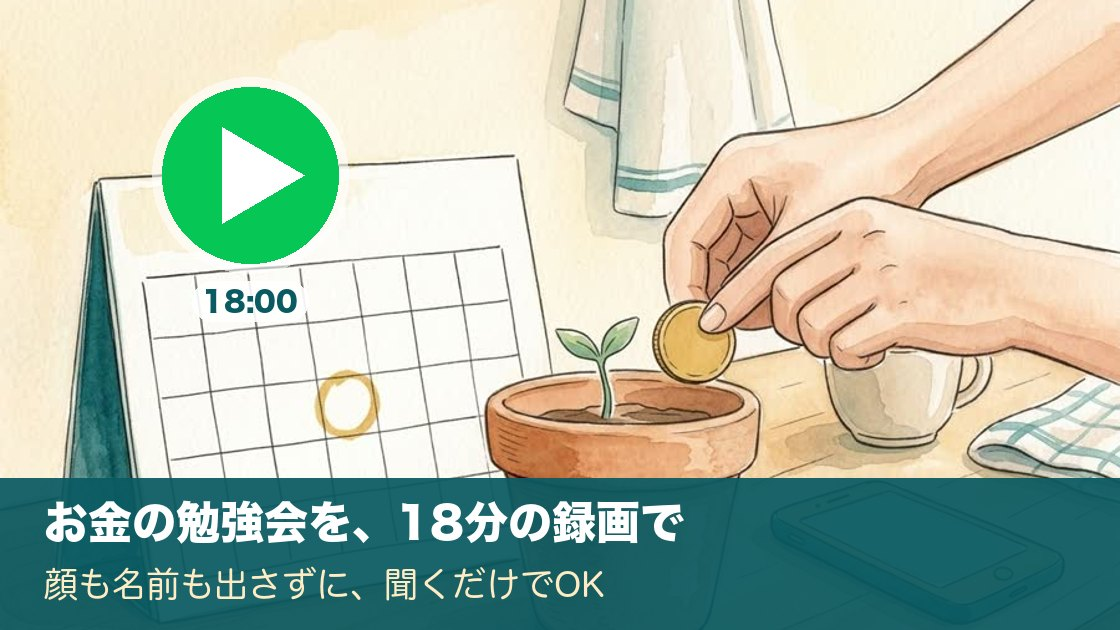
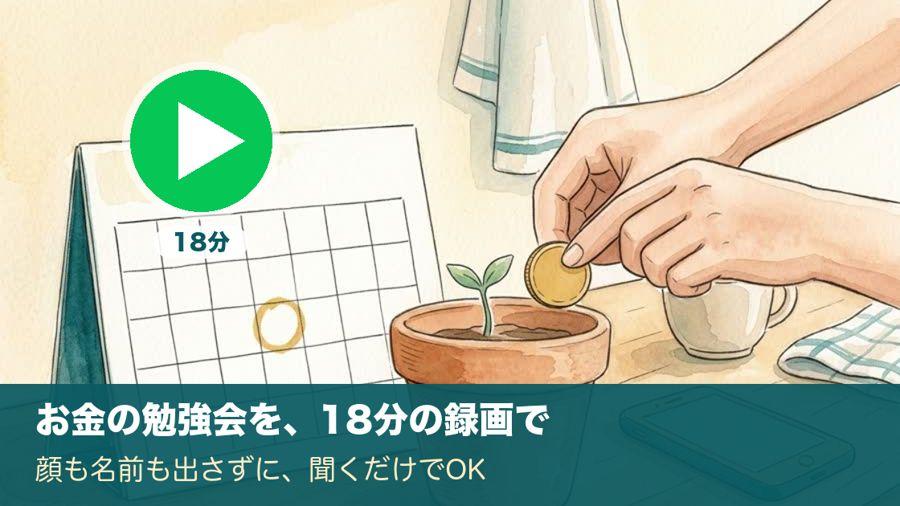
休眠起こし3通目HTML 軽量化（合計386KB）・サムネ18分表記

diff --git a/mail/okoshi/mail3_goal.html b/mail/okoshi/mail3_goal.html
@@ -11,7 +11,7 @@
 </tr></table>
 </td></tr>
 
-<tr><td style="padding:0;"><img src="https://fulfull.jp/wp-content/uploads/2026/11/okoshi-hero.gif" width="600" alt="ゴールの地図を持つ人と、喜ぶそろばんロボ" style="display:block;width:100%;max-width:600px;height:auto;border:0;"></td></tr>
+<tr><td style="padding:0;"><img src="https://fulfull.jp/wp-content/uploads/2026/11/okoshi-hero2.gif" width="600" alt="ゴールの地図を持つ人と、喜ぶそろばんロボ" style="display:block;width:100%;max-width:600px;height:auto;border:0;"></td></tr>
 
 <tr><td style="padding:24px 26px 4px;">
 <table role="presentation" cellpadding="0" cellspacing="0" border="0"><tr><td style="background:#FBF4E3;color:#A87A1F;font-size:13.5px;font-weight:800;border-radius:999px;padding:5px 14px;letter-spacing:.06em;">お金の整え方　その3</td></tr></table>
@@ -75,7 +75,7 @@
 
 <tr><td style="padding:26px 26px 4px;">
 <p style="margin:0 0 10px;font-size:17px;font-weight:800;">まずは聞くだけ、という方へ</p>
-<a href="https://mm738966m-boop.github.io/okane-benkyokai/kiku/?ref=mail_okoshi" style="text-decoration:none;"><img src="https://fulfull.jp/wp-content/uploads/2026/11/okoshi-video3.jpg" width="548" alt="お金の勉強会の18分の録画を再生する（顔も名前も出さずに聞けます）" style="display:block;width:100%;max-width:548px;height:auto;border:0;border-radius:18px;"></a>
+<a href="https://mm738966m-boop.github.io/okane-benkyokai/kiku/?ref=mail_okoshi" style="text-decoration:none;"><img src="https://fulfull.jp/wp-content/uploads/2026/11/okoshi-video4.jpg" width="548" alt="お金の勉強会の18分の録画を再生する（顔も名前も出さずに聞けます）" style="display:block;width:100%;max-width:548px;height:auto;border:0;border-radius:18px;"></a>
 <p style="margin:8px 0 0;font-size:15px;color:#4A6468;line-height:1.7;">お金の勉強会を、18分の録画にまとめました。顔も名前も出さずに、聞くだけで大丈夫です。</p>
 </td></tr>
 
@@ -94,7 +94,7 @@
 
 <tr><td style="padding:26px 26px 24px;">
 <table role="presentation" width="100%" cellpadding="0" cellspacing="0" border="0" style="border-top:2px dashed #D5E4E6;"><tr>
-<td width="78" valign="bottom" style="padding-top:16px;"><img src="https://fulfull.jp/wp-content/uploads/2026/11/okoshi-robo.png" width="66" alt="" style="display:block;width:66px;height:auto;border:0;"></td>
+<td width="78" valign="bottom" style="padding-top:16px;"><img src="https://fulfull.jp/wp-content/uploads/2026/11/okoshi-robo-s.jpg" width="66" alt="" style="display:block;width:66px;height:auto;border:0;"></td>
 <td valign="middle" style="padding-top:16px;font-size:16px;line-height:1.85;">
 追伸<br>
 「書いてみたけど、これで合ってるのかな」という1行でも大丈夫です。<br>
